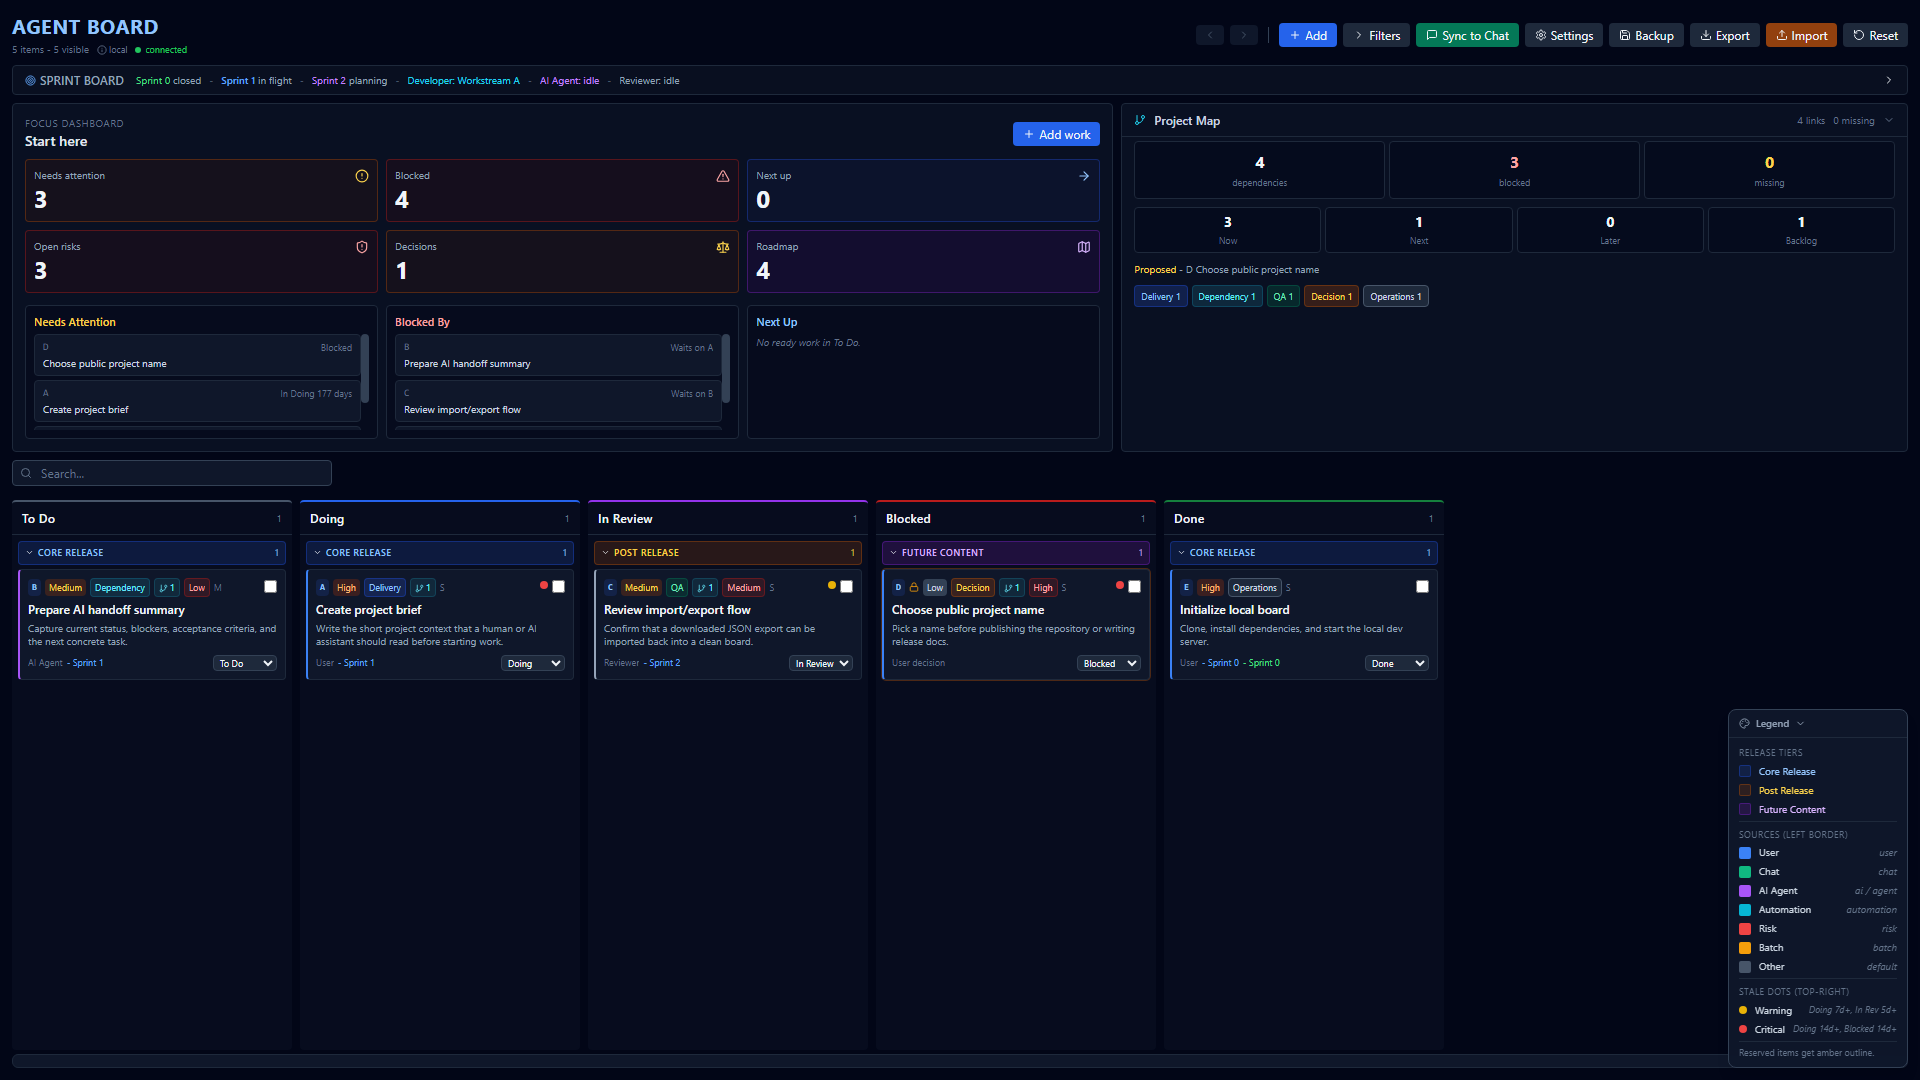
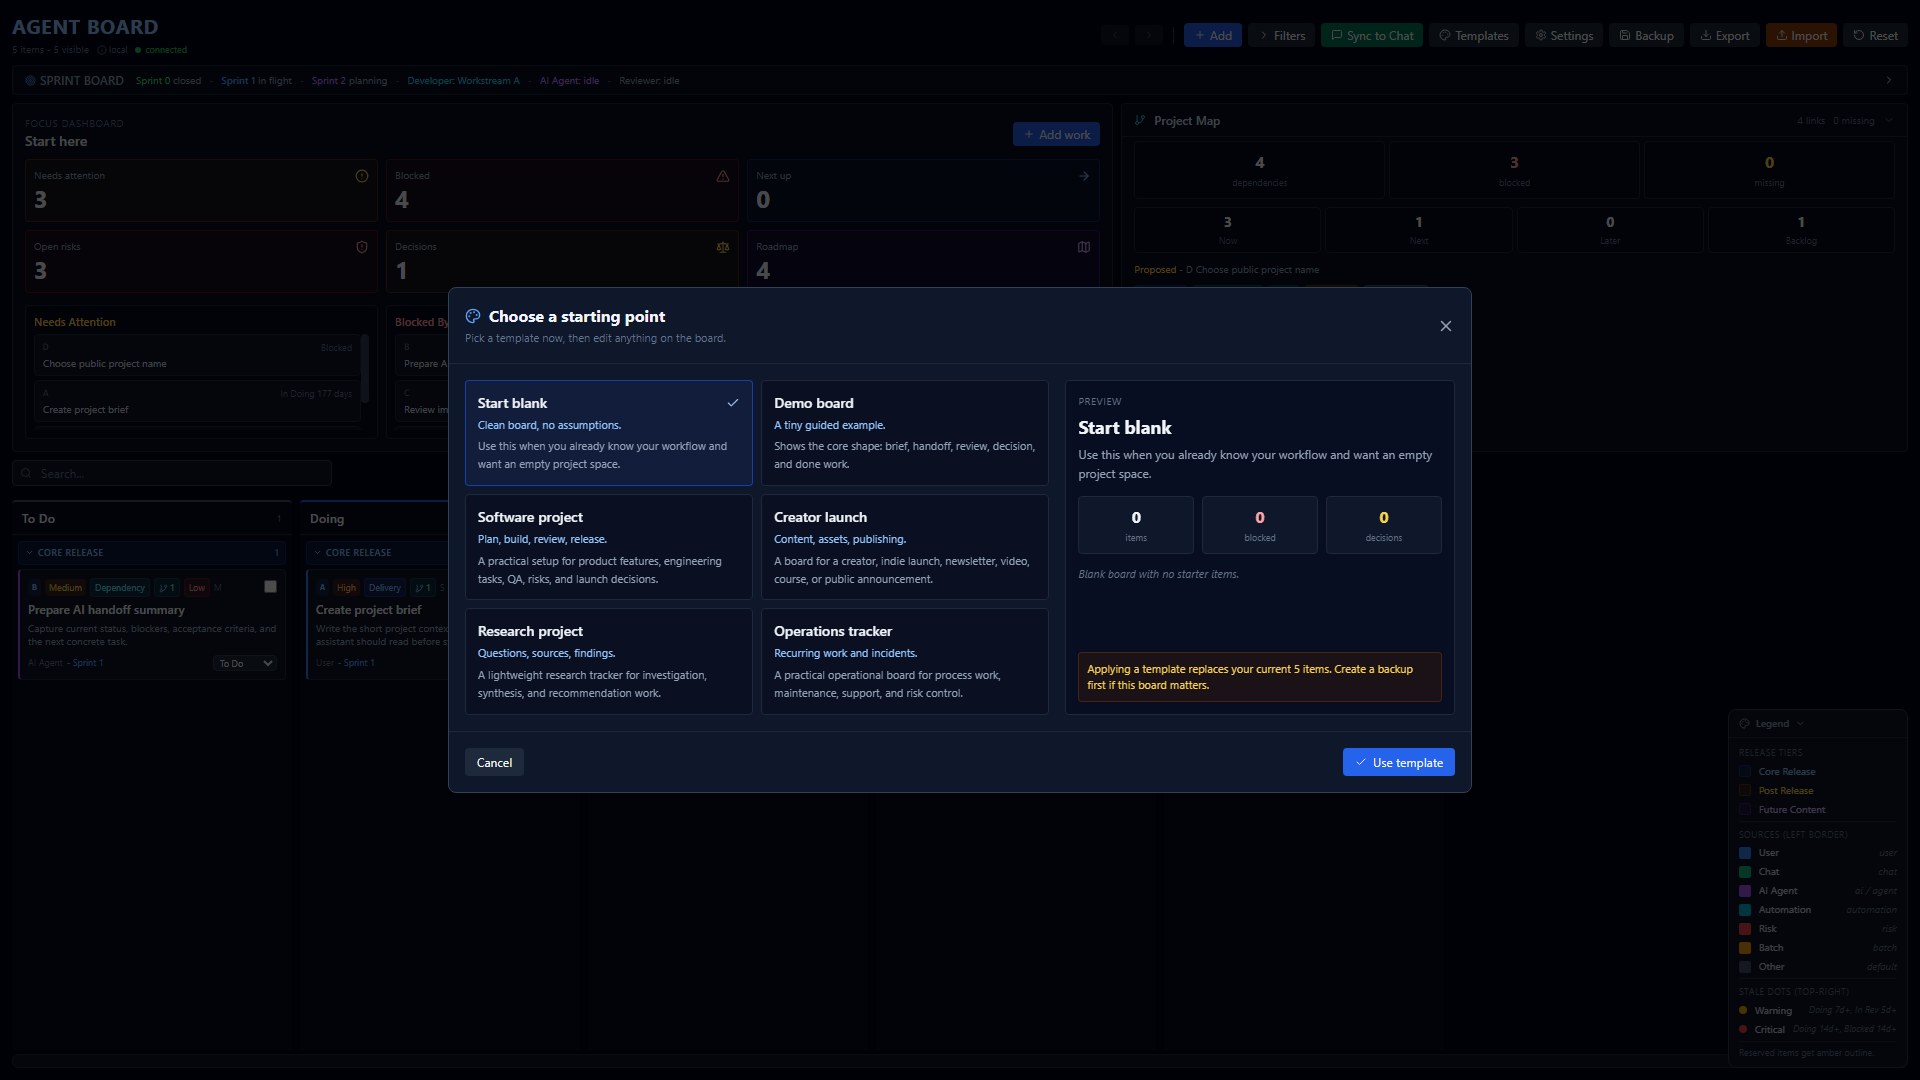
Add first-run template chooser

diff --git a/src/App.jsx b/src/App.jsx
@@ -87,6 +87,122 @@ const DEFAULT_SPRINT_BOARD = {
   nextRoundGoal: 'Planning notes...',
 };
 
+const TEMPLATE_DATE = '2026-01-01T09:00:00.000Z';
+
+function templateItem({ id, path, title, description, column = 'To Do', severity = 'Medium', size = 'M', source = 'User', releaseTier = 'core_release', candidateRound = 'Cycle 1', actualRound = null, reserved = false, notes = '', domain = 'Delivery', dependencies = [], riskLevel = 'None', roadmapStage = 'Now', decisionStatus = 'None', owner = 'Project Lead' }) {
+  return {
+    id, path, title, description, column, severity, size, source, releaseTier,
+    candidateRound, actualRound, reserved, notes, domain, dependencies,
+    riskLevel, roadmapStage, decisionStatus, owner,
+    createdAt: TEMPLATE_DATE, updatedAt: TEMPLATE_DATE, columnEnteredAt: TEMPLATE_DATE,
+  };
+}
+
+const BOARD_TEMPLATES = [
+  {
+    id: 'blank',
+    title: 'Start blank',
+    subtitle: 'Clean board, no assumptions.',
+    description: 'Use this when you already know your workflow and want an empty project space.',
+    items: [],
+    sprintBoard: {
+      lastRoundLabel: 'Cycle 0', lastRoundSummary: 'No prior cycle yet.',
+      currentRound: 'Cycle 1', currentRoundGoal: 'Add the first useful work items.',
+      nextRound: 'Cycle 2', nextRoundGoal: 'Refine priorities after the first pass.',
+    },
+  },
+  {
+    id: 'demo',
+    title: 'Demo board',
+    subtitle: 'A tiny guided example.',
+    description: 'Shows the core shape: brief, handoff, review, decision, and done work.',
+    sprintBoard: {
+      lastRoundLabel: 'Sprint 0', lastRoundSummary: 'Repository initialized and the local board started.',
+      currentRound: 'Sprint 1', currentRoundGoal: 'Use the board to plan the first real project tasks.',
+      nextRound: 'Sprint 2', nextRoundGoal: 'Review import/export and refine the workflow.',
+    },
+    items: [
+      templateItem({ id: 'demo-kickoff', path: 'A', title: 'Create project brief', description: 'Write the short project context that a human or AI assistant should read before starting work.', column: 'Doing', severity: 'High', size: 'S', source: 'User', candidateRound: 'Sprint 1', notes: 'Keep this brief enough to paste into a new chat.', domain: 'Delivery', dependencies: ['E'], owner: 'Project Lead' }),
+      templateItem({ id: 'demo-ai-handoff', path: 'B', title: 'Prepare AI handoff summary', description: 'Capture current status, blockers, acceptance criteria, and the next concrete task.', column: 'To Do', source: 'AI Agent', candidateRound: 'Sprint 1', notes: 'Use Sync to Chat after updating the board.', domain: 'Dependency', dependencies: ['A'], riskLevel: 'Low', owner: 'AI Agent' }),
+      templateItem({ id: 'demo-review', path: 'C', title: 'Review import/export flow', description: 'Confirm that a downloaded JSON export can be imported back into a clean board.', column: 'In Review', source: 'Reviewer', releaseTier: 'post_release', candidateRound: 'Sprint 2', domain: 'QA', dependencies: ['B'], riskLevel: 'Medium', roadmapStage: 'Next', owner: 'Reviewer' }),
+      templateItem({ id: 'demo-blocked', path: 'D', title: 'Choose public project name', description: 'Pick a name before publishing the repository or writing release docs.', column: 'Blocked', severity: 'Low', size: 'S', source: 'User decision', releaseTier: 'future_content', candidateRound: null, reserved: true, notes: 'Reserved items cannot move to Doing until explicitly unreserved.', domain: 'Decision', dependencies: ['A'], riskLevel: 'High', roadmapStage: 'Backlog', decisionStatus: 'Proposed', owner: 'Project Owner' }),
+      templateItem({ id: 'demo-done', path: 'E', title: 'Initialize local board', description: 'Clone, install dependencies, and start the local dev server.', column: 'Done', severity: 'High', size: 'S', source: 'User', candidateRound: 'Sprint 0', actualRound: 'Sprint 0', notes: 'The server created local state.json from sample.state.json.', domain: 'Operations', decisionStatus: 'Accepted', owner: 'Project Lead' }),
+    ],
+  },
+  {
+    id: 'software',
+    title: 'Software project',
+    subtitle: 'Plan, build, review, release.',
+    description: 'A practical setup for product features, engineering tasks, QA, risks, and launch decisions.',
+    sprintBoard: {
+      lastRoundLabel: 'Sprint 0', lastRoundSummary: 'Project setup and goals defined.',
+      currentRound: 'Sprint 1', currentRoundGoal: 'Build the first usable feature slice.',
+      nextRound: 'Sprint 2', nextRoundGoal: 'Harden the release path and reduce risk.',
+    },
+    items: [
+      templateItem({ id: 'software-brief', path: 'A', title: 'Define feature outcome', description: 'Write the user problem, success criteria, and non-goals for the first feature slice.', column: 'Doing', severity: 'High', size: 'S', domain: 'Delivery', owner: 'Product Lead' }),
+      templateItem({ id: 'software-api', path: 'B', title: 'Implement core workflow', description: 'Build the smallest end-to-end path that proves the feature works.', column: 'To Do', severity: 'High', size: 'L', source: 'Engineering', domain: 'Engineering', dependencies: ['A'], riskLevel: 'Medium', owner: 'Engineering' }),
+      templateItem({ id: 'software-qa', path: 'C', title: 'Run acceptance pass', description: 'Verify the workflow against acceptance criteria and capture release blockers.', column: 'To Do', size: 'M', source: 'QA', releaseTier: 'post_release', candidateRound: 'Sprint 2', domain: 'QA', dependencies: ['B'], roadmapStage: 'Next', owner: 'QA' }),
+      templateItem({ id: 'software-release', path: 'D', title: 'Choose release scope', description: 'Decide what ships now and what moves to follow-up.', column: 'Blocked', severity: 'High', size: 'S', source: 'Decision', domain: 'Decision', dependencies: ['B'], riskLevel: 'High', decisionStatus: 'Proposed', owner: 'Project Owner' }),
+      templateItem({ id: 'software-risk', path: 'E', title: 'Document rollback plan', description: 'Write the recovery path before launch so the team knows how to respond.', column: 'In Review', severity: 'Medium', size: 'S', source: 'Operations', domain: 'Risk', riskLevel: 'Medium', roadmapStage: 'Next', owner: 'Operations' }),
+    ],
+  },
+  {
+    id: 'creator',
+    title: 'Creator launch',
+    subtitle: 'Content, assets, publishing.',
+    description: 'A board for a creator, indie launch, newsletter, video, course, or public announcement.',
+    sprintBoard: {
+      lastRoundLabel: 'Prep', lastRoundSummary: 'Topic and audience chosen.',
+      currentRound: 'Launch Week', currentRoundGoal: 'Finish the core asset and publish confidently.',
+      nextRound: 'Follow-up', nextRoundGoal: 'Review results and plan the next release.',
+    },
+    items: [
+      templateItem({ id: 'creator-outline', path: 'A', title: 'Lock launch message', description: 'Write the one-sentence promise and the audience this launch is for.', column: 'Doing', severity: 'High', size: 'S', domain: 'Delivery', owner: 'Creator' }),
+      templateItem({ id: 'creator-asset', path: 'B', title: 'Produce primary asset', description: 'Create the video, post, page, or download that carries the launch.', column: 'To Do', severity: 'High', size: 'L', source: 'Creator', domain: 'Design', dependencies: ['A'], owner: 'Creator' }),
+      templateItem({ id: 'creator-review', path: 'C', title: 'Review publishing checklist', description: 'Check links, thumbnails, captions, metadata, and the first call to action.', column: 'To Do', size: 'M', source: 'Reviewer', domain: 'QA', dependencies: ['B'], roadmapStage: 'Next', owner: 'Reviewer' }),
+      templateItem({ id: 'creator-risk', path: 'D', title: 'Resolve rights or source concern', description: 'Confirm asset rights, citations, or permission before public release.', column: 'Blocked', severity: 'High', size: 'S', source: 'Risk', domain: 'Risk', dependencies: ['B'], riskLevel: 'High', owner: 'Creator' }),
+      templateItem({ id: 'creator-decision', path: 'E', title: 'Choose publish date', description: 'Pick the release date and decide whether to hold for more review.', column: 'To Do', severity: 'Medium', size: 'S', source: 'Decision', domain: 'Decision', dependencies: ['C'], decisionStatus: 'Proposed', roadmapStage: 'Now', owner: 'Creator' }),
+    ],
+  },
+  {
+    id: 'research',
+    title: 'Research project',
+    subtitle: 'Questions, sources, findings.',
+    description: 'A lightweight research tracker for investigation, synthesis, and recommendation work.',
+    sprintBoard: {
+      lastRoundLabel: 'Scoping', lastRoundSummary: 'Research question and output format selected.',
+      currentRound: 'Evidence Pass', currentRoundGoal: 'Collect enough evidence to answer the main question.',
+      nextRound: 'Synthesis', nextRoundGoal: 'Convert evidence into clear decisions and next steps.',
+    },
+    items: [
+      templateItem({ id: 'research-question', path: 'A', title: 'Frame research question', description: 'Write the exact question, audience, and decision this research should support.', column: 'Doing', severity: 'High', size: 'S', domain: 'Research', owner: 'Research Lead' }),
+      templateItem({ id: 'research-sources', path: 'B', title: 'Collect source set', description: 'Gather primary and supporting sources, then flag gaps or weak evidence.', column: 'To Do', size: 'M', source: 'Researcher', domain: 'Research', dependencies: ['A'], owner: 'Researcher' }),
+      templateItem({ id: 'research-synthesis', path: 'C', title: 'Synthesize findings', description: 'Summarize what the evidence shows, where it conflicts, and what is uncertain.', column: 'To Do', severity: 'High', size: 'L', source: 'Researcher', domain: 'Documentation', dependencies: ['B'], roadmapStage: 'Next', owner: 'Research Lead' }),
+      templateItem({ id: 'research-risk', path: 'D', title: 'Resolve evidence gap', description: 'Identify missing proof that could change the recommendation.', column: 'Blocked', severity: 'Medium', size: 'S', source: 'Risk', domain: 'Risk', dependencies: ['B'], riskLevel: 'Medium', owner: 'Research Lead' }),
+      templateItem({ id: 'research-decision', path: 'E', title: 'Choose recommendation', description: 'Decide what action the research supports and what should wait.', column: 'To Do', size: 'S', source: 'Decision', domain: 'Decision', dependencies: ['C'], decisionStatus: 'Deferred', roadmapStage: 'Later', owner: 'Stakeholder' }),
+    ],
+  },
+  {
+    id: 'operations',
+    title: 'Operations tracker',
+    subtitle: 'Recurring work and incidents.',
+    description: 'A practical operational board for process work, maintenance, support, and risk control.',
+    sprintBoard: {
+      lastRoundLabel: 'Last Cycle', lastRoundSummary: 'Routine work reviewed and carryover identified.',
+      currentRound: 'This Cycle', currentRoundGoal: 'Clear blockers and protect daily operations.',
+      nextRound: 'Next Cycle', nextRoundGoal: 'Reduce recurring issues and improve handoffs.',
+    },
+    items: [
+      templateItem({ id: 'ops-review', path: 'A', title: 'Review current workload', description: 'Identify urgent work, blocked work, owner gaps, and recurring issues.', column: 'Doing', severity: 'High', size: 'S', source: 'Operations', domain: 'Operations', owner: 'Ops Lead' }),
+      templateItem({ id: 'ops-incident', path: 'B', title: 'Resolve active blocker', description: 'Track the current operational issue until ownership and next action are clear.', column: 'Blocked', severity: 'Critical', size: 'M', source: 'Risk', domain: 'Risk', dependencies: ['A'], riskLevel: 'Critical', owner: 'Ops Lead' }),
+      templateItem({ id: 'ops-handoff', path: 'C', title: 'Prepare handoff note', description: 'Summarize current status, decisions needed, and what should happen next.', column: 'To Do', size: 'S', source: 'Documentation', domain: 'Documentation', dependencies: ['A'], owner: 'Operations' }),
+      templateItem({ id: 'ops-process', path: 'D', title: 'Improve recurring process', description: 'Make one small change that prevents the same issue next cycle.', column: 'To Do', severity: 'Medium', size: 'M', source: 'Operations', releaseTier: 'post_release', domain: 'Roadmap', dependencies: ['B'], roadmapStage: 'Next', owner: 'Ops Lead' }),
+      templateItem({ id: 'ops-decision', path: 'E', title: 'Approve escalation rule', description: 'Decide when this issue should move from routine work to escalation.', column: 'In Review', size: 'S', source: 'Decision', domain: 'Decision', dependencies: ['B'], decisionStatus: 'Proposed', riskLevel: 'Low', owner: 'Stakeholder' }),
+    ],
+  },
+];
+
 function sourceAccent(source) {
   const s = (source || '').toLowerCase();
   if (s.includes('ai') || s.includes('agent')) return 'border-l-purple-500';
@@ -283,6 +399,7 @@ export default function App() {
   const [showImportConfirm, setShowImportConfirm] = useState(null);
   const [showExport, setShowExport] = useState(false);
   const [showSettings, setShowSettings] = useState(false);
+  const [showTemplateChooser, setShowTemplateChooser] = useState(false);
   const [configSaveStatus, setConfigSaveStatus] = useState('idle');
   const [configError, setConfigError] = useState('');
   const [copiedFlag, setCopiedFlag] = useState(false);
@@ -323,6 +440,9 @@ export default function App() {
         const normalizedState = normalizeStatePayload(data);
         setItems(normalizedState.items);
         if (normalizedState.sprintBoard) setSprintBoard({ ...DEFAULT_SPRINT_BOARD, ...normalizedState.sprintBoard });
+        const templateChooserSeen = window.localStorage?.getItem('agent-board-template-chooser-seen') === '1';
+        const stillOnDemoBoard = normalizedState.items.length > 0 && normalizedState.items.every(item => String(item.id || '').startsWith('demo-'));
+        if (!templateChooserSeen && (normalizedState.items.length === 0 || stillOnDemoBoard)) setShowTemplateChooser(true);
         setServerStatus('ok');
       } catch (err) {
         console.error('Failed to load state:', err);
@@ -370,6 +490,7 @@ export default function App() {
         else if (showAdd) setShowAdd(false);
         else if (showExport) setShowExport(false);
         else if (showSettings) setShowSettings(false);
+        else if (showTemplateChooser) closeTemplateChooser();
         else if (showResetConfirm) setShowResetConfirm(false);
         else if (showImportConfirm) setShowImportConfirm(null);
         else if (showBulkMove) setShowBulkMove(false);
@@ -380,7 +501,7 @@ export default function App() {
     }
     window.addEventListener('keydown', onKey);
     return () => window.removeEventListener('keydown', onKey);
-  }, [viewingItem, editingItem, showAdd, showExport, showSettings, showResetConfirm, showImportConfirm, showBulkMove, showBulkTier, showBulkRound, showAbout]);
+  }, [viewingItem, editingItem, showAdd, showExport, showSettings, showTemplateChooser, showResetConfirm, showImportConfirm, showBulkMove, showBulkTier, showBulkRound, showAbout]);
 
   function updateScrollState() {
     const c = scrollContainerRef.current;
@@ -574,10 +695,41 @@ export default function App() {
     setSelectedIds(selectedIds.includes(id) ? selectedIds.filter(s => s !== id) : [...selectedIds, id]);
   }
   function clearSelection() { setSelectedIds([]); }
+  function closeTemplateChooser() {
+    window.localStorage?.setItem('agent-board-template-chooser-seen', '1');
+    setShowTemplateChooser(false);
+  }
+
+  function instantiateTemplate(template) {
+    const stamp = nowIso();
+    return {
+      items: template.items.map(item => ensureItemShape({ ...item, createdAt: stamp, updatedAt: stamp, columnEnteredAt: stamp })),
+      sprintBoard: { ...DEFAULT_SPRINT_BOARD, ...template.sprintBoard },
+    };
+  }
+
+  function applyTemplate(template) {
+    const next = instantiateTemplate(template);
+    setItems(next.items);
+    setSprintBoard(next.sprintBoard);
+    setSelectedIds([]);
+    setSearch('');
+    setFilterColumn('All');
+    setFilterPath('');
+    setFilterRound('');
+    setFilterSource('All');
+    setFilterSeverity('All');
+    setFilterReleaseTier('All');
+    window.localStorage?.setItem('agent-board-template-chooser-seen', '1');
+    setShowTemplateChooser(false);
+    setShowResetConfirm(false);
+  }
+
   function resetAll() {
     setItems([]);
     setSprintBoard(DEFAULT_SPRINT_BOARD);
     setShowResetConfirm(false);
+    setShowTemplateChooser(true);
     setSelectedIds([]);
   }
 
@@ -826,6 +978,7 @@ export default function App() {
                 {syncFlag ? <Check size={12} /> : <MessageSquare size={12} />}
                 {syncFlag ? 'Copied' : 'Sync to Chat'}
               </button>
+              <button onClick={() => setShowTemplateChooser(true)} className="px-2.5 py-1 bg-slate-800 hover:bg-slate-700 rounded text-xs flex items-center gap-1" title="Start from a project template"><Palette size={12} />Templates</button>
               <button onClick={openSettings} className="px-2.5 py-1 bg-slate-800 hover:bg-slate-700 rounded text-xs flex items-center gap-1" title="Edit project settings"><Settings size={12} />Settings</button>
               <button onClick={createBackup} className="px-2.5 py-1 bg-slate-800 hover:bg-slate-700 rounded text-xs flex items-center gap-1" title="Create timestamped backup"><Save size={12} />Backup</button>
               <button onClick={() => setShowExport(true)} className="px-2.5 py-1 bg-slate-800 hover:bg-slate-700 rounded text-xs flex items-center gap-1"><Download size={12} />Export</button>
@@ -1156,6 +1309,7 @@ export default function App() {
         {viewingItem && <TaskDetailModal item={viewingItem} labels={labels} onClose={() => setViewingItem(null)} onEdit={() => { setEditingItem(viewingItem); setViewingItem(null); }} onDelete={(id) => { if (confirm(`Delete ${workstreamLabel.toLowerCase()} ${viewingItem.path}?`)) deleteItem(id); }} onMove={(id, col) => moveItem(id, col)} />}
         {(editingItem || showAdd) && <ItemEditModal item={editingItem} labels={labels} existingPaths={existingPaths} onSave={saveItem} onClose={() => { setEditingItem(null); setShowAdd(false); }} />}
         {showSettings && <SettingsModal config={appConfig} status={configSaveStatus} error={configError} onSave={saveAppConfig} onClose={() => setShowSettings(false)} />}
+        {showTemplateChooser && <TemplateChooserModal templates={BOARD_TEMPLATES} currentCount={items.length} onApply={applyTemplate} onClose={closeTemplateChooser} />}
 
         {showAbout && (
           <div className="fixed inset-0 bg-black/70 flex items-center justify-center p-4 z-50" onClick={() => setShowAbout(false)}>
@@ -1260,6 +1414,63 @@ export default function App() {
             </div>
           </div>
         )}
+      </div>
+    </div>
+  );
+}
+
+function TemplateChooserModal({ templates, currentCount, onApply, onClose }) {
+  const [selectedId, setSelectedId] = useState(templates[0]?.id || 'blank');
+  const selected = templates.find(template => template.id === selectedId) || templates[0];
+  const needsConfirm = currentCount > 0;
+  return (
+    <div className="fixed inset-0 bg-black/70 flex items-center justify-center p-4 z-50" onClick={onClose}>
+      <div className="bg-slate-900 border border-slate-700 rounded-lg max-w-5xl w-full max-h-[90vh] flex flex-col" onClick={(e) => e.stopPropagation()}>
+        <div className="flex items-center justify-between p-4 border-b border-slate-800">
+          <div>
+            <h2 className="text-base font-bold flex items-center gap-2"><Palette size={16} className="text-blue-400" />Choose a starting point</h2>
+            <div className="text-[11px] text-slate-500 mt-0.5">Pick a template now, then edit anything on the board.</div>
+          </div>
+          <button onClick={onClose} className="text-slate-400 hover:text-slate-200"><X size={18} /></button>
+        </div>
+        <div className="p-4 grid grid-cols-1 lg:grid-cols-[1.2fr_0.8fr] gap-4 overflow-y-auto">
+          <div className="grid grid-cols-1 sm:grid-cols-2 gap-2">
+            {templates.map(template => (
+              <button key={template.id} onClick={() => setSelectedId(template.id)} className={'text-left border rounded p-3 transition-colors ' + (selectedId === template.id ? 'bg-blue-950/40 border-blue-700/70' : 'bg-slate-950/40 border-slate-800 hover:border-slate-600')}>
+                <div className="flex items-center justify-between gap-2 mb-1">
+                  <div className="text-sm font-semibold text-slate-100">{template.title}</div>
+                  {selectedId === template.id && <Check size={14} className="text-blue-300" />}
+                </div>
+                <div className="text-[11px] text-blue-300 mb-1">{template.subtitle}</div>
+                <div className="text-[11px] text-slate-400 leading-relaxed">{template.description}</div>
+              </button>
+            ))}
+          </div>
+          <div className="bg-slate-950/50 border border-slate-800 rounded p-3 text-xs flex flex-col min-h-[320px]">
+            <div className="text-[10px] uppercase tracking-wider text-slate-500 mb-1">Preview</div>
+            <div className="text-lg font-bold text-slate-100 mb-1">{selected.title}</div>
+            <div className="text-slate-400 mb-3 leading-relaxed">{selected.description}</div>
+            <div className="grid grid-cols-3 gap-2 mb-3">
+              <div className="bg-slate-900 border border-slate-800 rounded p-2 text-center"><div className="text-base font-bold text-slate-100">{selected.items.length}</div><div className="text-[9px] text-slate-500">items</div></div>
+              <div className="bg-slate-900 border border-slate-800 rounded p-2 text-center"><div className="text-base font-bold text-red-300">{selected.items.filter(item => item.column === 'Blocked').length}</div><div className="text-[9px] text-slate-500">blocked</div></div>
+              <div className="bg-slate-900 border border-slate-800 rounded p-2 text-center"><div className="text-base font-bold text-amber-300">{selected.items.filter(item => item.decisionStatus !== 'None').length}</div><div className="text-[9px] text-slate-500">decisions</div></div>
+            </div>
+            <div className="space-y-1 flex-1 overflow-y-auto tk-vscroll pr-1">
+              {selected.items.slice(0, 6).map(item => (
+                <div key={item.id} className="bg-slate-900 border border-slate-800 rounded px-2 py-1">
+                  <div className="flex items-center justify-between gap-2"><span className="font-mono text-[10px] text-blue-300">{item.path}</span><span className="text-[9px] text-slate-500">{item.column}</span></div>
+                  <div className="text-[11px] text-slate-200 truncate">{item.title}</div>
+                </div>
+              ))}
+              {selected.items.length === 0 && <div className="text-[11px] text-slate-500 italic">Blank board with no starter items.</div>}
+            </div>
+            {needsConfirm && <div className="mt-3 text-[11px] text-amber-300 bg-amber-950/30 border border-amber-900/50 rounded p-2">Applying a template replaces your current {currentCount} items. Create a backup first if this board matters.</div>}
+          </div>
+        </div>
+        <div className="p-4 border-t border-slate-800 flex items-center justify-between gap-2">
+          <button onClick={onClose} className="px-3 py-1.5 bg-slate-800 hover:bg-slate-700 rounded text-xs">Cancel</button>
+          <button onClick={() => onApply(selected)} className="px-3 py-1.5 bg-blue-600 hover:bg-blue-500 rounded text-xs flex items-center gap-1.5"><Check size={12} />Use template</button>
+        </div>
       </div>
     </div>
   );

diff --git a/scripts/verify.js b/scripts/verify.js
@@ -253,6 +253,8 @@ function verifyReleaseAssets() {
   expect(readme.includes('docs/PUBLISHING.md'), 'README should link to docs/PUBLISHING.md.');
   expect(readme.includes('docs/TEMPLATE_USE.md'), 'README should link to docs/TEMPLATE_USE.md.');
   expect(readme.includes('docs/ROADMAP.md'), 'README should link to docs/ROADMAP.md.');
+  expect(readme.includes('Templates'), 'README should document the Templates feature.');
+  expect(readme.includes('software project'), 'README should document template presets.');
   expect(readme.includes('Focus Dashboard'), 'README should document the Focus Dashboard feature.');
   expect(readme.includes('Project Map'), 'README should document the Project Map feature.');
   expect(readme.includes('schemaVersion'), 'README should document board schema metadata.');

diff --git a/CHANGELOG.md b/CHANGELOG.md
@@ -4,6 +4,19 @@ All notable changes to Agent Board will be documented in this file.
 
 The format is based on Keep a Changelog, and this project uses simple `0.x` versions while the tool is early.
 
+## [0.4.0] - 2026-06-27
+
+### Added
+
+- First-run template chooser for blank, demo, software project, creator launch, research project, and operations tracker boards
+- Header `Templates` action so users can switch starter workflows after setup
+- Template previews with item, blocked, and decision counts before applying
+
+### Changed
+
+- Blank and demo boards now prompt users toward a clearer starting workflow without interrupting existing real boards
+- Updated README docs for templates and first-run setup
+
 ## [0.3.0] - 2026-06-27
 
 ### Added

diff --git a/README.md b/README.md
@@ -12,6 +12,7 @@ It is designed for private project planning, not as a hosted multi-user service.
 
 ## Features
 
+- First-run template chooser for blank, demo, software, creator launch, research, and operations boards
 - Focus Dashboard that immediately surfaces attention items, blockers, next work, risks, decisions, and roadmap load
 - Local kanban board with To Do, Doing, In Review, Blocked, and Done columns
 - Tiered sections for Core Release, Post Release, and Future Content
@@ -61,6 +62,8 @@ On first run, the server creates local files from the committed examples:
 - `sample.state.json` -> `state.json`
 
 The generated `config.json`, `state.json`, and `backups/` folder are ignored by Git. They are your local working data.
+
+When the board is blank or still on the demo sample, Agent Board opens a template chooser so new users can start from a blank board, demo board, software project, creator launch, research project, or operations tracker. You can reopen it later from `Templates` in the header.
 
 ## Local Files
 
@@ -114,6 +117,10 @@ Click `Backup` in the header to create a timestamped copy of `state.json` in `ba
 ## Import And Export
 
 Use `Export` to download a full JSON copy of the board. Exports include `app`, `schemaVersion`, and `version` metadata so future forks can identify compatible board files. Use `Import` to replace the current local board with a compatible JSON file. Agent Board still accepts older item-array exports, adds current metadata on save, and warns before importing unknown newer schemas. Create a backup first if the current board matters.
+
+## Templates
+
+Use `Templates` to replace the current board with a practical starter workflow. Templates are intentionally generic and local-only: applying one writes to your ignored `state.json`, not to the committed sample. Create a backup first if the current board matters.
 
 ## Focus Dashboard
 

diff --git a/docs/ROADMAP.md b/docs/ROADMAP.md
@@ -12,7 +12,7 @@ Agent Board is intentionally small and local-first. The goal is to stay easy to 
 
 ## Likely Improvements
 
-- First-run template chooser for blank, demo, software, creator, research, and operations boards
+- More template presets and template customization controls
 - Better import preview for schema warnings and replacement scope
 - Dependency graph filtering by domain, owner, and roadmap stage
 - Export presets for risk reviews, decision logs, and roadmap planning